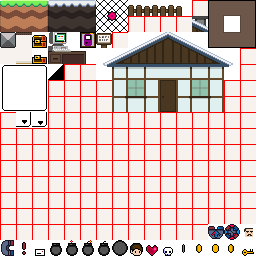
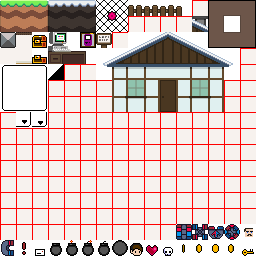
Adds boxes

Changed region(s): [[0.6875, 0.875, 0.8125, 0.9375]]

diff --git a/src/tilemap/entityfactory.cpp b/src/tilemap/entityfactory.cpp
@@ -12,6 +12,8 @@ Entity* EntityFactory::player(QPointF pos, QSizeF size, Entity* parent)
     AnimationComponent* animationComponent = AnimationFactory::getAnimationComponent("player");
     animationComponent->setCurrentAnimation("standing");
 
+    // Attracts items with a BoxGravityHitbox reactor
+    player->addComponent(new MagnetGravityComponent(100, -0.7, "", QPointF(size.width() / 2, -5), "BoxGravityHitbox", "PlayerGravityMagnet"));
     player->addComponent(new SquareHitboxComponent(GameButtonComponent::HITBOX_REACTOR_NAME));
     player->addComponent(new SquareHitboxComponent(SparkComponent::HITBOX_REACTOR_NAME));
     player->addComponent(new PlayerInputComponent());
@@ -113,7 +115,7 @@ Entity* EntityFactory::magnetZipper(Tiled::MapObject* object, Entity* parent)
 
 Entity* EntityFactory::magnetZipper(QPointF pos, QSizeF size, QString direction, QSizeF fieldSize, float speed, QString buttons, Entity* parent)
 {
-    pos.setY(pos.y() - TILE_SIZE);
+    pos.setY(pos.y() - size.height());
     Entity *e = new Entity(parent, pos, size);
     e->addComponent(new MagnetZipperComponent(convertToDirection(direction), QSizeF((0.5 + fieldSize.width()) * TILE_SIZE , fieldSize.height() * TILE_SIZE),
                                               speed, buttons));
@@ -124,7 +126,7 @@ Entity* EntityFactory::magnetZipper(QPointF pos, QSizeF size, QString direction,
 
 Entity* EntityFactory::magnetJumper(Tiled::MapObject* object, Entity* parent)
 {
-    object->setY(object->y() - TILE_SIZE);
+    object->setY(object->y() - object->size().height());
     Entity *e = new Entity(parent, object->position(), object->size());
     e->addComponent(new MagnetJumperComponent(
                         object->propertyAsString("force").toFloat(),
@@ -142,7 +144,7 @@ Entity* EntityFactory::magnetJumper(Tiled::MapObject* object, Entity* parent)
 
 Entity* EntityFactory::magnetGravity(Tiled::MapObject* object, Entity* parent)
 {
-    object->setY(object->y() - TILE_SIZE);
+    object->setY(object->y() - object->size().height());
 
     Entity *e = new Entity(parent, object->position(), object->size());
 
@@ -164,6 +166,23 @@ Entity* EntityFactory::magnetGravity(Tiled::MapObject* object, Entity* parent)
 
     hitboxDisplay->addComponent(new GenericRenderComponent(&GenericRenderComponent::circleMagnetHitbox));
     hitboxDisplay->setZValue(-0.001);
+
+    return e;
+}
+
+Entity *EntityFactory::box(Tiled::MapObject *object, Entity *parent)
+{
+    object->setY(object->y() - object->size().height());
+    Entity *e = new Entity(parent, object->position(), object->size());
+
+    e->addComponent(new ImageComponent(":/entities/magnet-box.png"));
+    e->addComponent(new PhysicsComponent());
+    e->addComponent(new MagnetZipperReactorComponent());
+    e->addComponent(new MagnetJumperReactorComponent());
+    e->addComponent(new MagnetGravityReactorComponent());
+    e->addComponent(new MagnetGravityReactorComponent("BoxGravityHitbox", "PlayerGravityMagnet"));
+    e->addComponent(new MagnetGravityComponent(40, 2, "", QPointF(), "BoxGravityHitbox", "PlayerGravityMagnet"));
+    e->addComponent(new SquareHitboxComponent(GameButtonComponent::HITBOX_REACTOR_NAME));
 
     return e;
 }

diff --git a/src/components/magnets/magnetgravityreactorcomponent.cpp b/src/components/magnets/magnetgravityreactorcomponent.cpp
@@ -1,6 +1,8 @@
 #include "magnetgravityreactorcomponent.h"
 
-MagnetGravityReactorComponent::MagnetGravityReactorComponent(QString name) : HitboxReactorComponent(MagnetGravityComponent::HITBOX_NAME, name)
+MagnetGravityReactorComponent::MagnetGravityReactorComponent(QString hitboxName, QString magnetGravityComponentName, QString name)
+    : HitboxReactorComponent(hitboxName, name),
+      magnetGravityComponentName(magnetGravityComponentName)
 {
 
 }
@@ -14,9 +16,12 @@ void MagnetGravityReactorComponent::onIntersect(HitboxComponent *hb)
 {
     CircleHitboxComponent* magneticFieldHitboxComponent = static_cast<CircleHitboxComponent*>(hb);
 
+    // Prevents interactions with self
+    if(magneticFieldHitboxComponent->getEntity() == this->getEntity()) return;
+
     // Get the associated MagnetJumperComponent to get magnet settings
-    MagnetGravityComponent *magnetJumperComponent  = static_cast<MagnetGravityComponent*>(magneticFieldHitboxComponent->getEntity()->getComponent("MagnetGravityComponent"));
-    assert(magnetJumperComponent);
+    MagnetGravityComponent *magnetGravityComponent  = dynamic_cast<MagnetGravityComponent*>(magneticFieldHitboxComponent->getEntity()->getComponent(magnetGravityComponentName));
+    assert(magnetGravityComponent);
 
     PhysicsComponent *physicsComponent = dynamic_cast<PhysicsComponent*>(getEntity()->getComponent("PhysicsComponent"));
     if(physicsComponent)
@@ -27,9 +32,21 @@ void MagnetGravityReactorComponent::onIntersect(HitboxComponent *hb)
         float vy = (getEntity()->y() + getEntity()->getSize().height() / 2) - hb->getCenter().y();
         float d = qSqrt(vx * vx + vy * vy);
         // Force is normalised to make it feel the same for different sized magnets
-        float f = magnetJumperComponent->getForce() / (d / magneticFieldHitboxComponent->getRadius());
+        float f = magnetGravityComponent->getForce() / (d / magneticFieldHitboxComponent->getRadius());
 
-        physicsComponent->setSpeed(physicsComponent->getSpeed().x() + f * (vx / d),
-                                         physicsComponent->getSpeed().y() + f * (vy / d));
+
+        if(d < 10 && magnetGravityComponent->getForce() < 0)
+        {
+            int tick = static_cast<GameScene*>(getEntity()->scene())->getGame()->getTick();
+            physicsComponent->setSpeed(0, 0);
+            physicsComponent->disablePhysicsForTick();
+            getEntity()->setPos(hb->getCenter() - QPointF(getEntity()->getSize().width() / 2,
+                                                          getEntity()->getSize().height() / 2 + qSin(tick * 0.07) * 2));
+        }
+        else if(qAbs(d) > 0.001)
+        {
+            physicsComponent->setSpeed(physicsComponent->getSpeed().x() + f * (vx / d),
+                                             physicsComponent->getSpeed().y() + f * (vy / d));
+        }
     }
 }

diff --git a/src/components/magnets/magnetgravitycomponent.cpp b/src/components/magnets/magnetgravitycomponent.cpp
@@ -1,18 +1,34 @@
 #include "magnetgravitycomponent.h"
 
 const QString MagnetGravityComponent::HITBOX_NAME = "MagnetGravityHitbox";
-MagnetGravityComponent::MagnetGravityComponent(float radius_, float force_, QString requiredButtons_) : Component("MagnetGravityComponent")
+MagnetGravityComponent::MagnetGravityComponent(float radius_, float force_, QString requiredButtons_, QPointF hitboxOffset_, QString customHitboxName, QString name) : Component(name)
 {
     requiredButtons = GameButtonComponent::getButtonVectorFromString(requiredButtons_);
     radius = radius_;
     force = force_;
+    hitboxName = customHitboxName;
+    hitboxOffset = hitboxOffset_;
 }
 
 void MagnetGravityComponent::init()
 {
-    CircleHitboxComponent *hc = new CircleHitboxComponent(HITBOX_NAME);
+    CircleHitboxComponent *hc = new CircleHitboxComponent(hitboxName);
     getEntity()->addComponent(hc);
     hc->setRadius(radius);
+    if(!hitboxOffset.isNull())
+    {
+        hc->setOffset(hitboxOffset);
+    }
+}
+
+void MagnetGravityComponent::onEnable()
+{
+    getEntity()->enableComponent(hitboxName);
+}
+
+void MagnetGravityComponent::onDisable()
+{
+    getEntity()->disableComponent(hitboxName);
 }
 
 float MagnetGravityComponent::getForce() const

diff --git a/include/magnetgravitycomponent.h b/include/magnetgravitycomponent.h
@@ -7,11 +7,14 @@
 class MagnetGravityComponent : public Component
 {
 public:
-    MagnetGravityComponent(float radius, float force = 5, QString requiredButtons = "");
+    MagnetGravityComponent(float radius, float force = 5, QString requiredButtons = "",
+                           QPointF hitboxOffset = QPointF(), QString customHitboxName = HITBOX_NAME,  QString name = "MagnetGravityComponent");
     const static QString HITBOX_NAME;
 
     void update() override;
     void init() override;
+    void onEnable() override;
+    void onDisable() override;
 
     float getForce() const;
     float getRotation() const;
@@ -21,6 +24,8 @@ private:
     float force = 5;
     float rotation = 0;
     float radius = 0;
+    QString hitboxName;
+    QPointF hitboxOffset;
 };
 
 #endif // MAGNETGRAVITYCOMPONENT_H

diff --git a/src/components/playerinputcomponent.cpp b/src/components/playerinputcomponent.cpp
@@ -41,6 +41,8 @@ void PlayerInputComponent::update()
             if(!entity->disableComponent("MagnetZipperReactorComponent")) entity->enableComponent("MagnetZipperReactorComponent");
             if(!entity->disableComponent("MagnetJumperReactorComponent")) entity->enableComponent("MagnetJumperReactorComponent");
             if(!entity->disableComponent("MagnetGravityReactorComponent")) entity->enableComponent("MagnetGravityReactorComponent");
+            // Player magnet sources
+            if(!entity->disableComponent("PlayerGravityMagnet")) entity->enableComponent("PlayerGravityMagnet");
         }
     }
     else

diff --git a/include/magnetgravityreactorcomponent.h b/include/magnetgravityreactorcomponent.h
@@ -10,13 +10,13 @@
 class MagnetGravityReactorComponent : public HitboxReactorComponent
 {
 public:
-    MagnetGravityReactorComponent(QString name = "MagnetGravityReactorComponent");
+    MagnetGravityReactorComponent(QString hitboxName = MagnetGravityComponent::HITBOX_NAME, QString magnetGravityComponentName = "MagnetGravityComponent", QString name = "MagnetGravityReactorComponent");
 
     void init() override;
     void onIntersect(HitboxComponent* hitboxComponent) override;
 
 private:
-
+    QString magnetGravityComponentName;
 };
 
 #endif // MAGNETGRAVITYREACTORCOMPONENT_H

diff --git a/src/tilemap/objectgroupitem.cpp b/src/tilemap/objectgroupitem.cpp
@@ -20,6 +20,12 @@ ObjectGroupItem::ObjectGroupItem(Tiled::ObjectGroup *objectGroup, Tiled::MapRend
                 static_cast<MapItem*>(parent)->setPlayer(EntityFactory::player(object, parent));
             }
             break;
+        case 235:
+            EntityFactory::box(object, this);
+            break;
+        case 236:
+            // TODO: Grappling magnet
+            break;
         case 237:
             EntityFactory::magnetJumper(object, this);
             break;

diff --git a/include/entityfactory.h b/include/entityfactory.h
@@ -41,6 +41,8 @@ public:
 
     static Entity *magnetGravity(Tiled::MapObject *object, Entity *parent);
 
+    static Entity *box(Tiled::MapObject *object, Entity *parent);
+
     static Entity* graphic(Tiled::MapObject*, Entity* = nullptr);
     static Entity* door(Tiled::MapObject*, Entity * = nullptr);
 

diff --git a/src/components/physicscomponent.cpp b/src/components/physicscomponent.cpp
@@ -60,7 +60,7 @@ void PhysicsComponent::update()
 
 void PhysicsComponent::handleCollision(SquareHitboxComponent *hitbox)
 {
-    if (!hitbox) return;
+    if (!hitbox || hitbox->getEntity() == this->getEntity()) return;
     QRectF theirHB = hitbox->getHitbox();
 
     QRectF ourHB;
